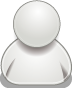
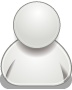
[#25998427] alterando o visual da listagem de anexos de postagens no forum (ainda não está perfeito, mas melhor do que nada), adicionando icone pequeno para deletar, ajustando tamanho da imagem default de participante e melhorando script do tooltip

diff --git a/public/javascripts/tooltip.js b/public/javascripts/tooltip.js
@@ -1,30 +1,19 @@
 $(document).ready(function(){
-  $('button').each(function(){
-    var tooltip = $(this).attr('data-tooltip');
-    if (tooltip != undefined && tooltip != '') {
-      $(this).qtip({
-        text: false,
-        content: {
-          text: function(api) {
-            // Retrieve content from custom attribute of the $('.selector') elements.
-            // var content = $(this).attr('data-tooltip');
-            // return content === '' ? api.destroy() : content;
-            return tooltip;
-          }
-        },
-        position: {
-          my: 'top center',
-          at: 'bottom center',
-          viewport: $(window),
-          adjust: {
-            y: 2
-          }
-        },
-        style: {
-          // classes: 'ui-tooltip-shadow ui-tooltip-dark'
-          classes: 'ui-tooltip-tipsy'
-        }
-      });
+  $('*[data-tooltip]').qtip({
+    content: {
+      attr: 'data-tooltip'
+    },
+    position: {
+      my: 'top center',
+      at: 'bottom center',
+      viewport: $(window),
+      adjust: {
+        y: 2
+      }
+    },
+    style: {
+      // classes: 'ui-tooltip-shadow ui-tooltip-dark'
+      classes: 'ui-tooltip-tipsy'
     }
-  })
+  });
 })

diff --git a/app/helpers/discussion_posts_helper.rb b/app/helpers/discussion_posts_helper.rb
@@ -99,17 +99,17 @@ module DiscussionPostsHelper
     #Lista de arquivos
     unless post.discussion_post_files.count == 0
       form_string <<   '<div class="forum_post_attachment">'
-      form_string <<   '<div><b>' << t(:forum_file_list) << '</b></div>'
+      form_string <<   '<h3>' << t(:forum_file_list) << '</h3>'
 
-      form_string <<      '<ul class="forum_post_attachment_list">'
+      form_string <<     '<ul class="forum_post_attachment_list">'
       post.discussion_post_files.each do |file|
-        form_string <<   '<li>'
-        form_string <<   '<a href="#">'<<(link_to file.attachment_file_name, :controller => "discussions", :action => "download_post_file", :idFile => file.id, :id => @discussion.id)<<'</a>&nbsp;&nbsp;'
-        form_string <<   (link_to (image_tag "discussion_file_remove.png", :alt => t(:forum_remove_file)), {:controller => "discussions", :action => "remove_attached_file", :idFile => file.id, :current_page => @current_page, :id => @discussion.id}, :confirm=>t(:forum_remove_file_confirm), :title => t(:forum_remove_file)) if editable && can_interact
-        form_string <<   '</li>'
+        form_string <<    '<li>'
+        form_string <<      '<a href="#">'<<(link_to file.attachment_file_name, :controller => "discussions", :action => "download_post_file", :idFile => file.id, :id => @discussion.id)<<'</a>&nbsp;&nbsp;'
+        form_string <<   (link_to (image_tag "icon_delete_small.png", :alt => t(:forum_remove_file)), {:controller => "discussions", :action => "remove_attached_file", :idFile => file.id, :current_page => @current_page, :id => @discussion.id}, :confirm=>t(:forum_remove_file_confirm), :title => t(:forum_remove_file), 'data-tooltip' => t(:forum_remove_file)) if editable && can_interact
+        form_string <<    '</li>'
       end
-      form_string <<      '</ul>'
-      form_string <<      '</div>'
+      form_string <<     '</ul>'
+      form_string <<   '</div>'
     end
 
     return form_string
